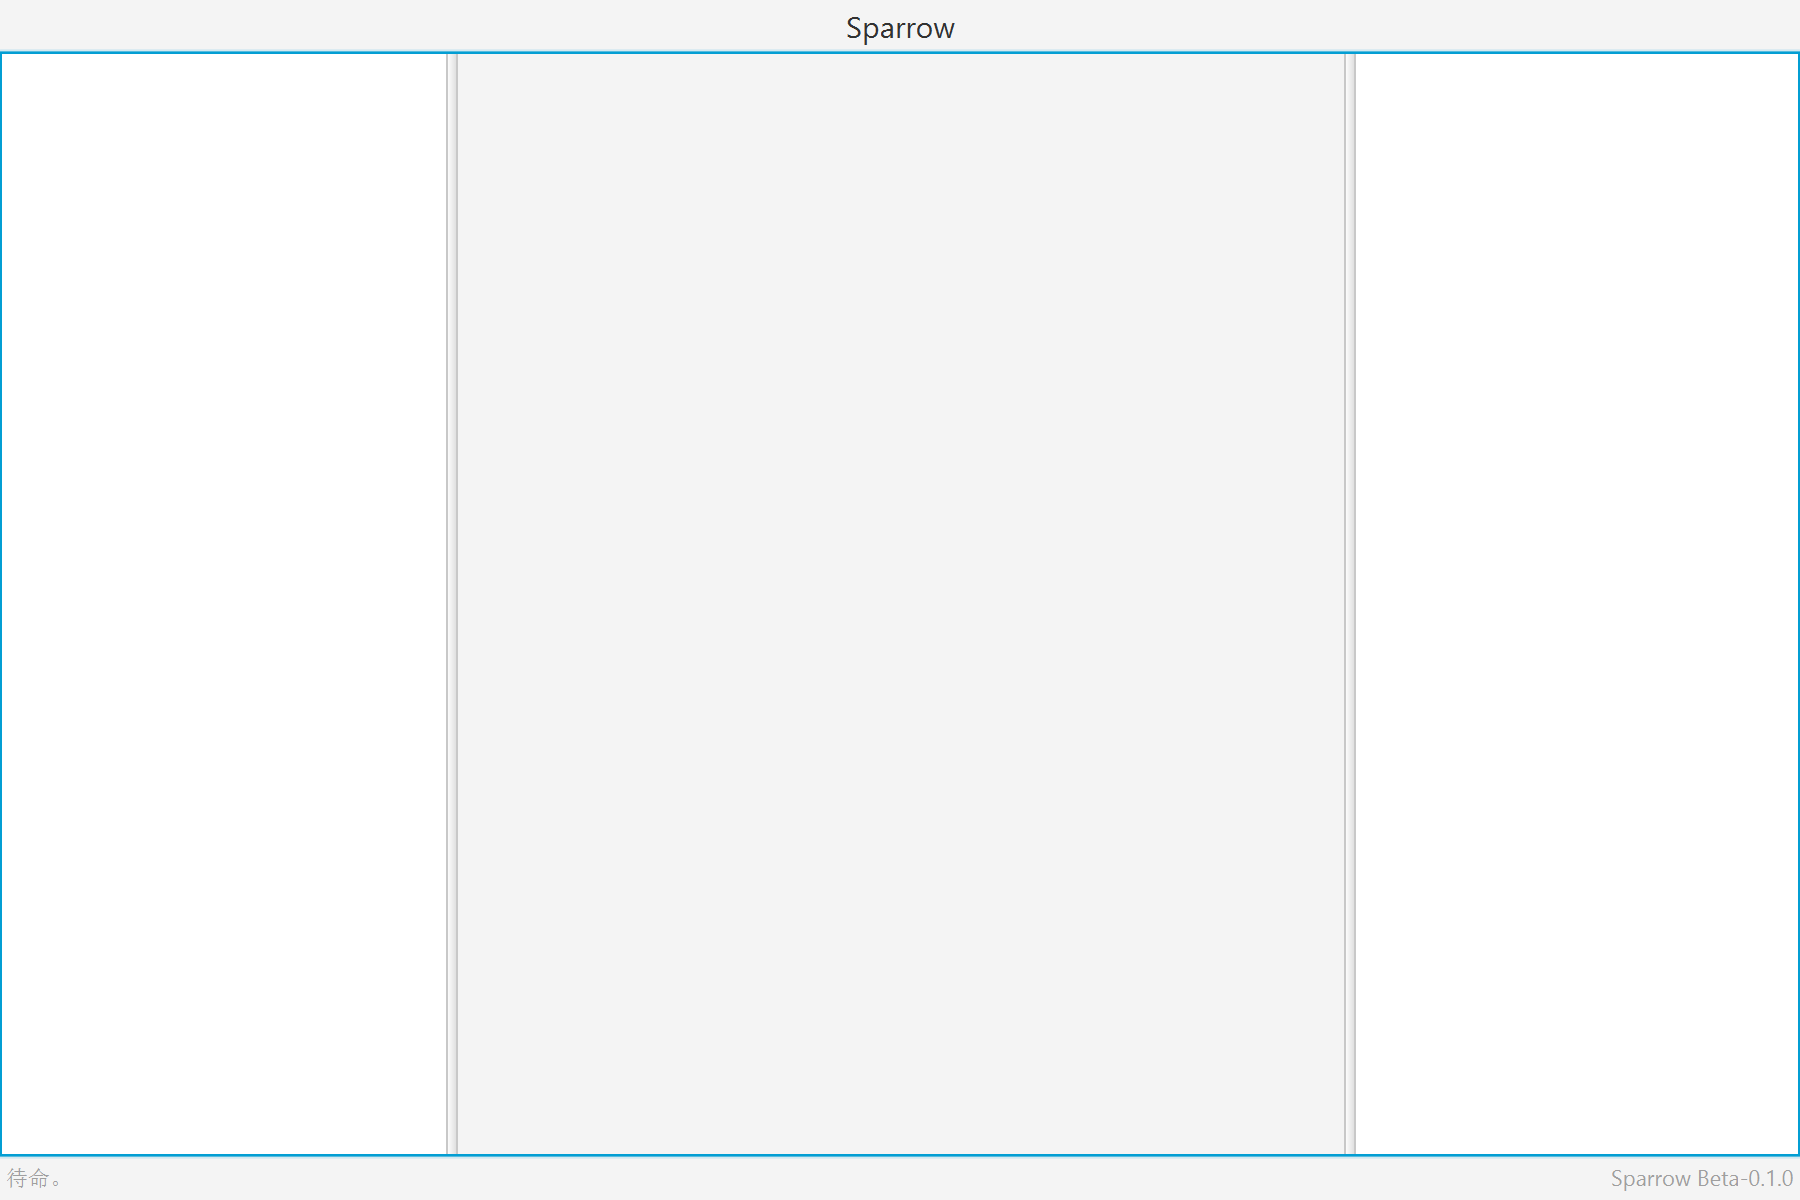
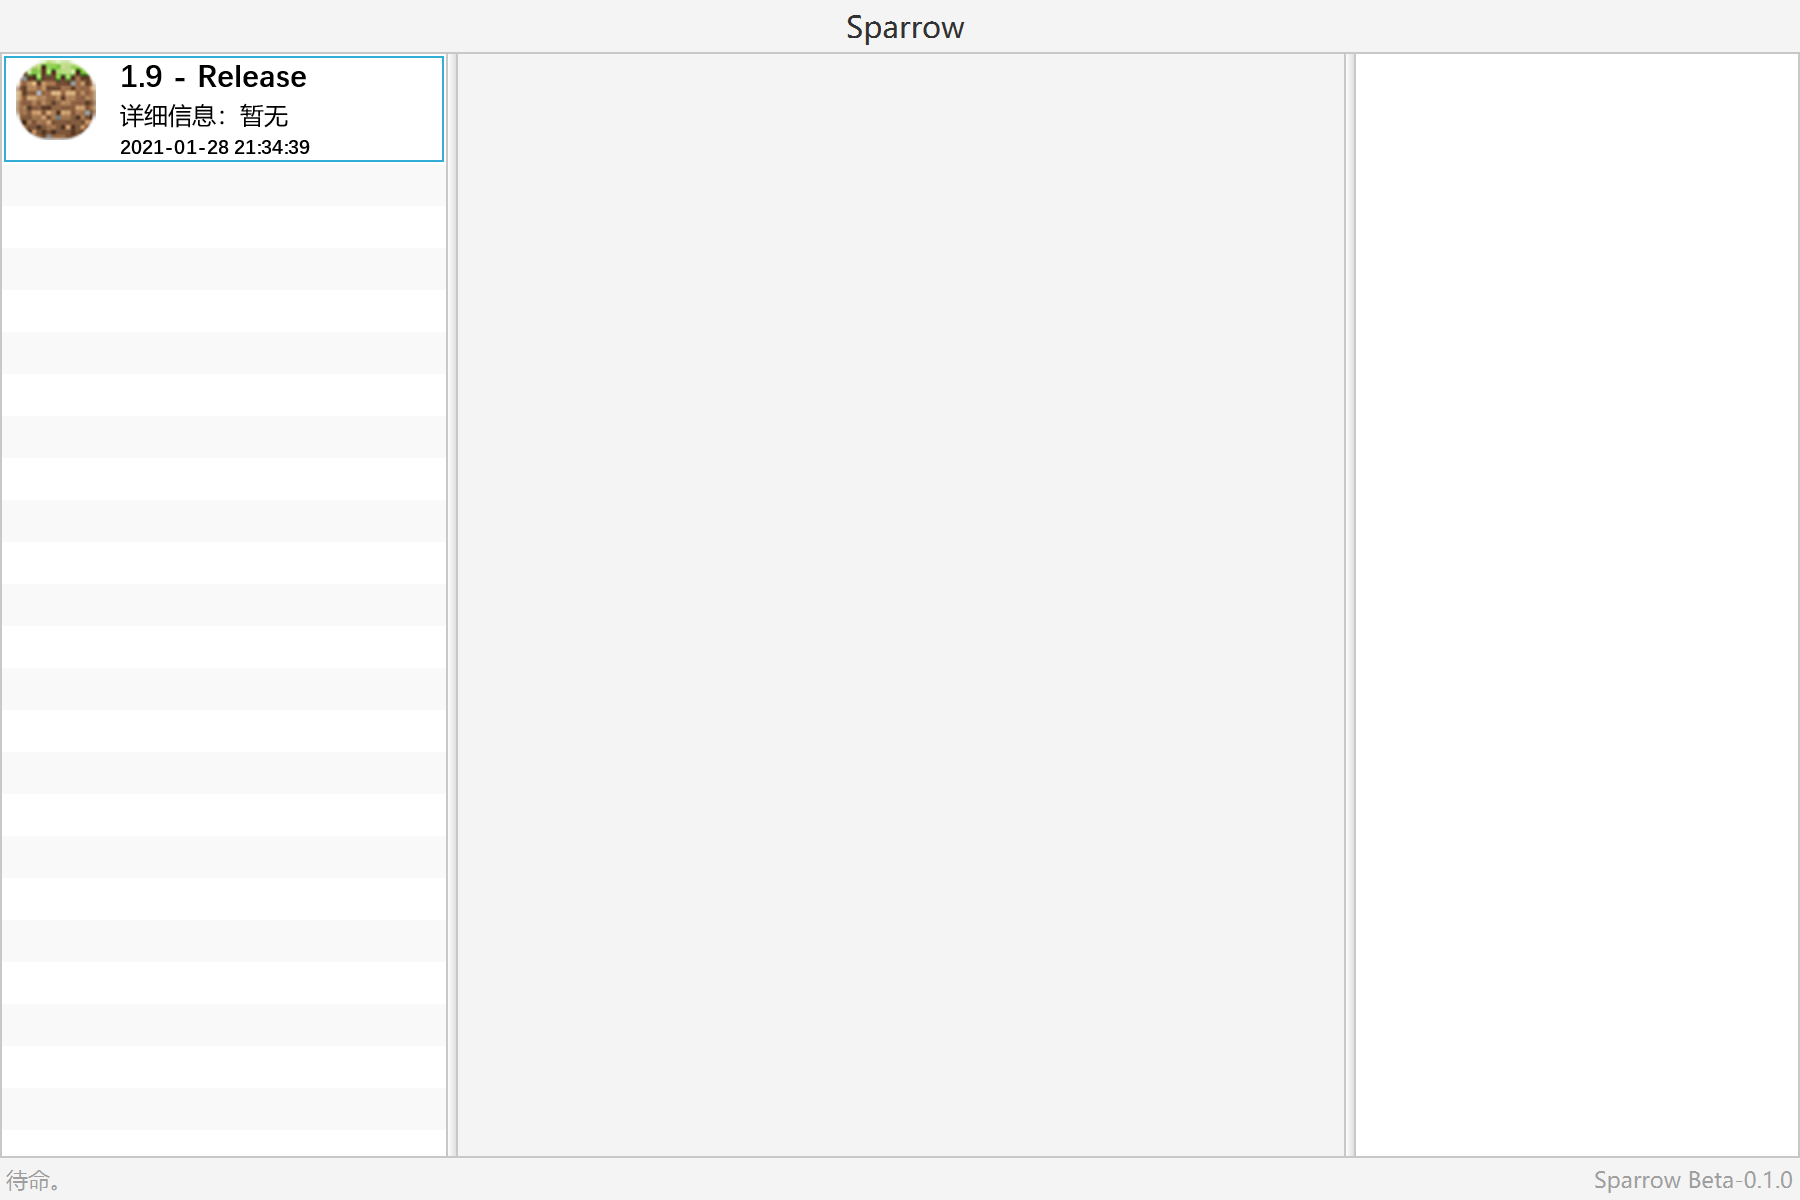
feat: Allow to show more version's info

Changed region(s): [[0.0, 0.0, 1.0, 1.0]]

diff --git a/UI_JavaFX/src/main/java/com/Sparrow/UI/JavaFX/launcherUI_JavaFX_Controller.java b/UI_JavaFX/src/main/java/com/Sparrow/UI/JavaFX/launcherUI_JavaFX_Controller.java
@@ -7,8 +7,7 @@ import javafx.fxml.FXML;
 import javafx.geometry.Side;
 import javafx.scene.control.*;
 import javafx.scene.image.ImageView;
-import javafx.scene.layout.AnchorPane;
-import javafx.scene.layout.BorderPane;
+import javafx.scene.layout.*;
 import javafx.scene.text.FontWeight;
 import javafx.scene.text.Text;
 import javafx.stage.DirectoryChooser;
@@ -16,7 +15,10 @@ import org.to2mbn.jmccc.option.MinecraftDirectory;
 
 import java.io.File;
 import java.io.IOException;
+import java.text.SimpleDateFormat;
 import java.util.ArrayList;
+import java.util.regex.Matcher;
+import java.util.regex.Pattern;
 
 public class launcherUI_JavaFX_Controller {
     @FXML
@@ -27,6 +29,12 @@ public class launcherUI_JavaFX_Controller {
 
     @FXML
     private ListView<Minecraft> versionSummary;
+
+    @FXML
+    private Label State;
+
+    @FXML
+    private Label Version;
 
     public void install(){
         versionList.setCellFactory(param -> new minecraftCell());
@@ -79,24 +87,43 @@ public class launcherUI_JavaFX_Controller {
             new expDialog().apply("导入错误", null, "游戏导入发生错误。", e);
         }
     }
+
+    public void changeState(launcherState state){
+        State.setText(state.getStateString()+"。"); //TODO 使用栈或队列实现多状态显示
+    }
 }
 
 
 class minecraftCell extends ListCell<Minecraft> {
+    private static boolean judgeContainsLetters(String cardNum) {
+        String regex=".*[a-zA-Z]+.*";
+        Matcher m= Pattern.compile(regex).matcher(cardNum);
+        return m.matches();
+    }
+
     @Override
     public void updateItem(Minecraft item, boolean empty) {
         super.updateItem(item, empty);
         if (!empty && item != null) {
             BorderPane cell = new BorderPane();
 
-            Text version = new Text(item.version);
-            version.setFont(javafx.scene.text.Font.font("DengXian", FontWeight.BOLD, 20));
+            VBox textBox = new VBox(3);
+            Text version = new Text(judgeContainsLetters(item.version) ? item.version + " - NotRelease" : item.version + " - Release"); //如果版本号含有字母则标记为NotRelease
+            version.setFont(javafx.scene.text.Font.font("DengXian", FontWeight.BOLD, 16));
+            Text info = new Text("详细信息：暂无");  //TODO 后期加入整合包信息或存档概览
+            SimpleDateFormat format = new SimpleDateFormat("yyyy-MM-dd HH:mm:ss");
+            Text date = new Text(format.format(new File(item.rootPath).lastModified()));
+            date.setFont(javafx.scene.text.Font.font("DengXian", FontWeight.EXTRA_BOLD, 10));
+            textBox.getChildren().addAll(version, info, date);
 
-
+            HBox iconBox = new HBox(2);
             ImageView icon = new ImageView(this.getClass().getClassLoader().getResource("com/Sparrow/UI/JavaFX/imgs/mc_icon.png").toString());
+            Pane space = new Pane();
+            space.setPrefWidth(10);
+            iconBox.getChildren().addAll(icon,space);
 
-            cell.setCenter(version);
-            cell.setLeft(icon);
+            cell.setCenter(textBox);
+            cell.setLeft(iconBox);
 
             setGraphic(cell);
         } else if (empty) {

diff --git a/UI_JavaFX/src/main/java/com/Sparrow/UI/JavaFX/launcherState.java b/UI_JavaFX/src/main/java/com/Sparrow/UI/JavaFX/launcherState.java
@@ -1,0 +1,36 @@
+package com.Sparrow.UI.JavaFX;
+
+public enum launcherState {
+    STANDBY{
+        @Override
+        public String getStateString() {
+            return "待命";
+        }
+    },
+    IMPORTING{
+        @Override
+        public String getStateString() {
+            return "导入中";
+        }
+    },
+    DOWNLOADING{
+        @Override
+        public String getStateString() {
+            return "下载中";
+        }
+    },
+    PROCESSING{
+        @Override
+        public String getStateString() {
+            return "处理中";
+        }
+    },
+    GAMING{
+        @Override
+        public String getStateString() {
+            return "游戏中";
+        }
+    }
+    ;
+    public abstract String getStateString();
+}

diff --git a/Launcher/src/main/java/com/Sparrow/Minecraft.java b/Launcher/src/main/java/com/Sparrow/Minecraft.java
@@ -54,4 +54,8 @@ public class Minecraft {
     public void launchOffline(String playername, boolean debug, boolean FC, int minMem, int maxMem, int width, int height, String serverURL) {
         launcher.launch_offline(rootPath, version, playername, debug, FC, minMem, maxMem, width, height, serverURL);
     }
+
+    public MinecraftDirectory toMinecraftDirectory(){
+        return new MinecraftDirectory(this.rootPath);
+    }
 }
